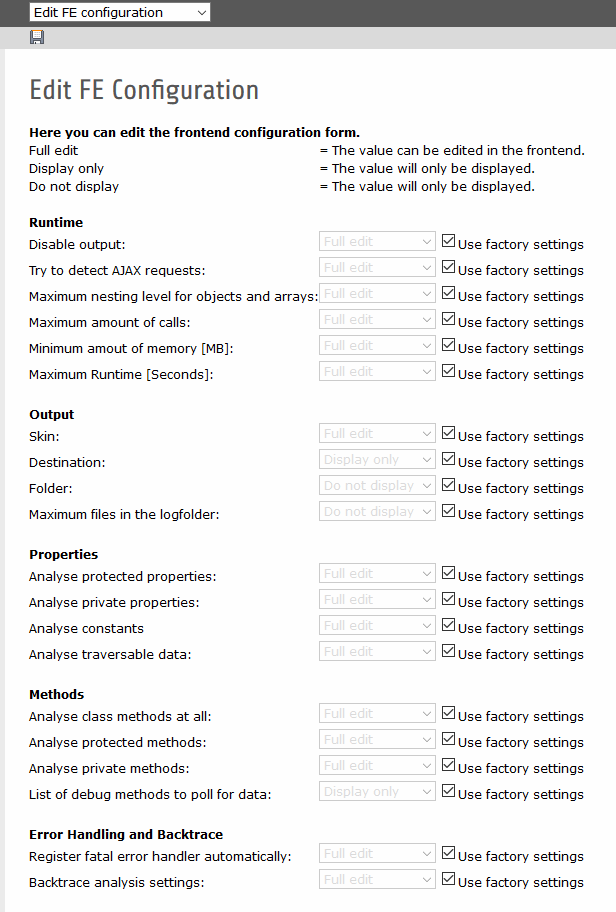
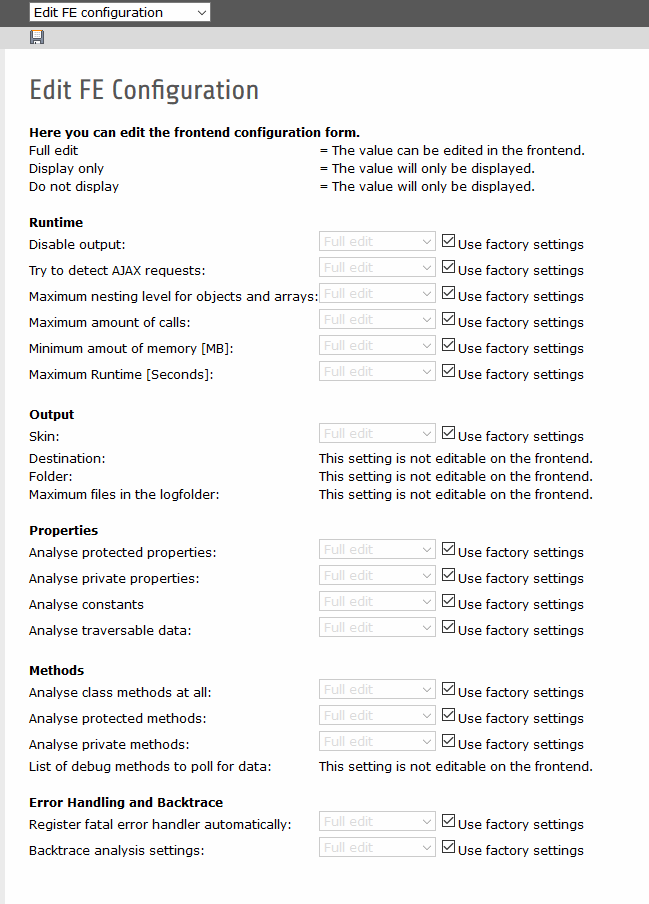
- Updated to the latest dev version of the mainlibrary. - Updated the documentation to the latest development - Updated the backend masks to match the latest development

Changed region(s): [[0.0308, 0.0, 0.9562, 0.9912], [0.4935, 0.4646, 0.9562, 0.9912], [0.3084, 0.0, 0.3701, 0.031]]

diff --git a/Resources/Private/Templates/FormConfig/Edit.html b/Resources/Private/Templates/FormConfig/Edit.html
@@ -63,7 +63,7 @@
         <td><f:form.select id="skin" name="output[skin]" options="{data.settings}" value="{value.output.skin}" /></td>
         <td class="cbx"><f:form.checkbox id="factory.skin" name="factory" checked="{data.factory.skin}" value="1" /><label for="factory.skin"><f:translate key="factory.settings" /></label></td>
       </tr>
-      
+
       <tr><td><f:translate key="label.destination" /></td><td colspan="2"><f:translate key="logging.noteditable"/></td></tr>
       <tr><td><f:translate key="label.folder" /></td><td colspan="2"><f:translate key="logging.noteditable"/></td></tr>
       <tr><td><f:translate key="label.maxfiles" /></td><td colspan="2"><f:translate key="logging.noteditable"/></td></tr>
@@ -113,11 +113,7 @@
         <td><f:form.select id="analysePrivateMethods" name="methods[analysePrivateMethods]" options="{data.settings}" value="{value.methods.analysePrivateMethods}" /></td>
         <td class="cbx"><f:form.checkbox id="factory.analysePrivateMethods" name="factory" checked="{data.factory.analysePrivateMethods}" value="1" /><label for="factory.analysePrivateMethods"><f:translate key="factory.settings" /></label></td>
       </tr>
-      <tr>
-        <td><label for="debugMethods"><f:translate key="label.debugMethods" /></label></td>
-        <td><f:form.select id="debugMethods" name="methods[debugMethods]" options="{data.settings}" value="{value.methods.debugMethods}" /></td>
-        <td class="cbx"><f:form.checkbox id="factory.debugMethods" name="factory" checked="{data.factory.debugMethods}" value="1" /><label for="factory.debugMethods"><f:translate key="factory.settings" /></label></td>
-      </tr>
+      <tr><td><f:translate key="label.debugMethods" /></td><td colspan="2"><f:translate key="logging.noteditable"/></td></tr>
       <tr><td colspan="3">&nbsp;</td></tr>
 
       <tr>

diff --git a/Classes/Controller/FormConfigController.php b/Classes/Controller/FormConfigController.php
@@ -76,15 +76,6 @@ if (!class_exists('Tx_Includekrexx_Controller_FormConfigController')) {
             $value['runtime']['maxRuntime'] = $this->convertKrexxFeSetting(
                 Config::getFeConfigFromFile('maxRuntime')
             );
-            $value['output']['folder'] = $this->convertKrexxFeSetting(
-                Config::getFeConfigFromFile('folder')
-            );
-            $value['output']['maxfiles'] = $this->convertKrexxFeSetting(
-                Config::getFeConfigFromFile('maxfiles')
-            );
-            $value['output']['destination'] = $this->convertKrexxFeSetting(
-                Config::getFeConfigFromFile('destination')
-            );
             $value['runtime']['maxCall'] = $this->convertKrexxFeSetting(
                 Config::getFeConfigFromFile('maxCall')
             );
@@ -105,9 +96,6 @@ if (!class_exists('Tx_Includekrexx_Controller_FormConfigController')) {
             );
             $value['properties']['analyseConstants'] = $this->convertKrexxFeSetting(
                 Config::getFeConfigFromFile('analyseConstants')
-            );
-            $value['methods']['debugMethods'] = $this->convertKrexxFeSetting(
-                Config::getFeConfigFromFile('debugMethods')
             );
             $value['runtime']['level'] = $this->convertKrexxFeSetting(
                 Config::getFeConfigFromFile('level')
@@ -179,6 +167,12 @@ if (!class_exists('Tx_Includekrexx_Controller_FormConfigController')) {
             }
 
             if (isset($arguments['action']) && $arguments['action'] == 'save' && $allOk) {
+                // We need to correct the allowed settings, sinc we do not allow anything.
+                unset($this->allowedSettingsNames['destination']);
+                unset($this->allowedSettingsNames['folder']);
+                unset($this->allowedSettingsNames['maxfiles']);
+                unset($this->allowedSettingsNames['debugMethods']);
+                
                 // Iterating through the form.
                 foreach ($arguments as $key => $data) {
                     if (is_array($data) && $key != '__referrer') {
@@ -252,7 +246,6 @@ if (!class_exists('Tx_Includekrexx_Controller_FormConfigController')) {
          */
         protected function convertKrexxFeSetting($values)
         {
-            // $result = 'none';
             if (is_array($values)) {
                 // Explanation:
                 // full -> is editable and values will be accepted

diff --git a/Resources/Private/krexx/src/view/Help.php b/Resources/Private/krexx/src/view/Help.php
@@ -52,7 +52,7 @@ class Help
         'debugMethods' => 'Comma-separated list of used debug callback functions. A lot of frameworks offer these, toArray and toString being the most common.<br/> kreXX will try to call them, if they are available and display their provided data.<br/> You can not change them on the frontend. If you want other settings here, you have to edit the kreXX configuration file.',
         'level' => 'Some frameworks have objects inside of objects inside of objects, and so on.<br/> Normally kreXX does not run in circles, but going to deep inside of an object tree can result in a lot of output.',
         'resetbutton' => 'Here you can reset your local settings, which are stored in a cookie.<br/> kreXX will then use the global settings (either ini-file or factory settings).',
-        'destination' => 'kreXX can save it&apos;s output to a file, instead of outputting it to the frontend.<br/> The output will then be stored in the log folder.',
+        'destination' => 'kreXX can save it&apos;s output to a file, instead of outputting it to the frontend.<br/> The output will then be stored in the log folder.<br/>You can not change this on the frontend. If you want another destination, you have to edit the kreXX configuration file.',
         'maxCall' => 'A lot of output does not only slow down your server, it also slows down your browser. When using kreXX in a loop,<br/> it will create output every time the loop is executed. To limit this, you can configure the maximum call settings.',
         'disabled' => 'Here you can disable kreXX. Note that this is just a local setting, it does not affect other browsers.',
         'folder' => 'This is the folder where kreXX will store it&apos;s logfiles.',

diff --git a/Resources/Private/krexx/src/framework/Config.php b/Resources/Private/krexx/src/framework/Config.php
@@ -569,6 +569,7 @@ class Config
         // and no display).
         if ($group == 'feEditing') {
             // Logging options can never be changed in the frontend.
+            // The debug methods will also not be editable.
             switch ($name) {
                 case 'destination':
                     $result = false;
@@ -577,8 +578,12 @@ class Config
                 case 'folder':
                     $result = false;
                     break;
-                
+
                 case 'maxfiles':
+                    $result = false;
+                    break;
+
+                case 'debugMethods':
                     $result = false;
                     break;
 

diff --git a/Documentation/Config/Frontend/Index.rst b/Documentation/Config/Frontend/Index.rst
@@ -14,19 +14,7 @@ Edit FE Configuration
 
 Being able to edit all settings on the fly inside the debug output might not be such a good idea. Like with the configuration, we have provided kreXX with factory settings, disabling the more "dangerous" options.
 
-With factory settings active, you can not edit the following settings:
-
-- deep --> debugMethods
-- output --> destination
-
-The following settings are not even displayed:
-
-- logging --> maxfiles
-- logging --> folder
-
-kreXX will not accept any cookie settings for these options.
-
-This can also be changed, of course. For every control, you can set 3 different settings:
+This can also be changed, of course. For (nearly) every control, you can set 3 different settings:
 
 +---------+-------------------------------------------------------------------------------------------------------------------------------+
 | Value   | meaning                                                                                                                       |
@@ -44,3 +32,12 @@ You can change which values can be edited on the frontend. To do this, we've als
 	:width: 350px
 	:align: left
 	:alt: Here you can change what options are available in the frontend.
+
+
+
+However, the following options will never be editable on the frontend:
+
+- Output --> Destination
+- Output --> Folder
+- Output --> Maximum files in the logfolder
+- Methods --> List of debug methods to poll for data

diff --git a/Documentation/Config/DevHandle/Index.rst b/Documentation/Config/DevHandle/Index.rst
@@ -40,6 +40,6 @@ Debugging a live server
 ^^^^^^^^^^^^^^^^^^^^^^^
 Using a local open function might tempt you to debug a productive server, since only browsers with this string in their cookie can trigger kreXX.
 
-| **When it comes to debugging a productive  server, there is only one rule:**
+| When it comes to debugging a productive  server, there is only one rule:
 | **Never ever debug a productive server. This will only lead to trouble.**
 

diff --git a/Documentation/Logging/Index.rst b/Documentation/Logging/Index.rst
@@ -43,10 +43,6 @@ To prevent these files from clogging up your system, kreXX will only keep 10 fil
 
 |
 
-Once you set the output destination to **file** inside the configuration file, any cookie settings regarding the output destination will be ignored.
-
-|
-|
 
 | And please remember, when it comes to debugging a live server, there is only one rule:
 | **Never ever debug a live server. This will only lead to trouble.**
